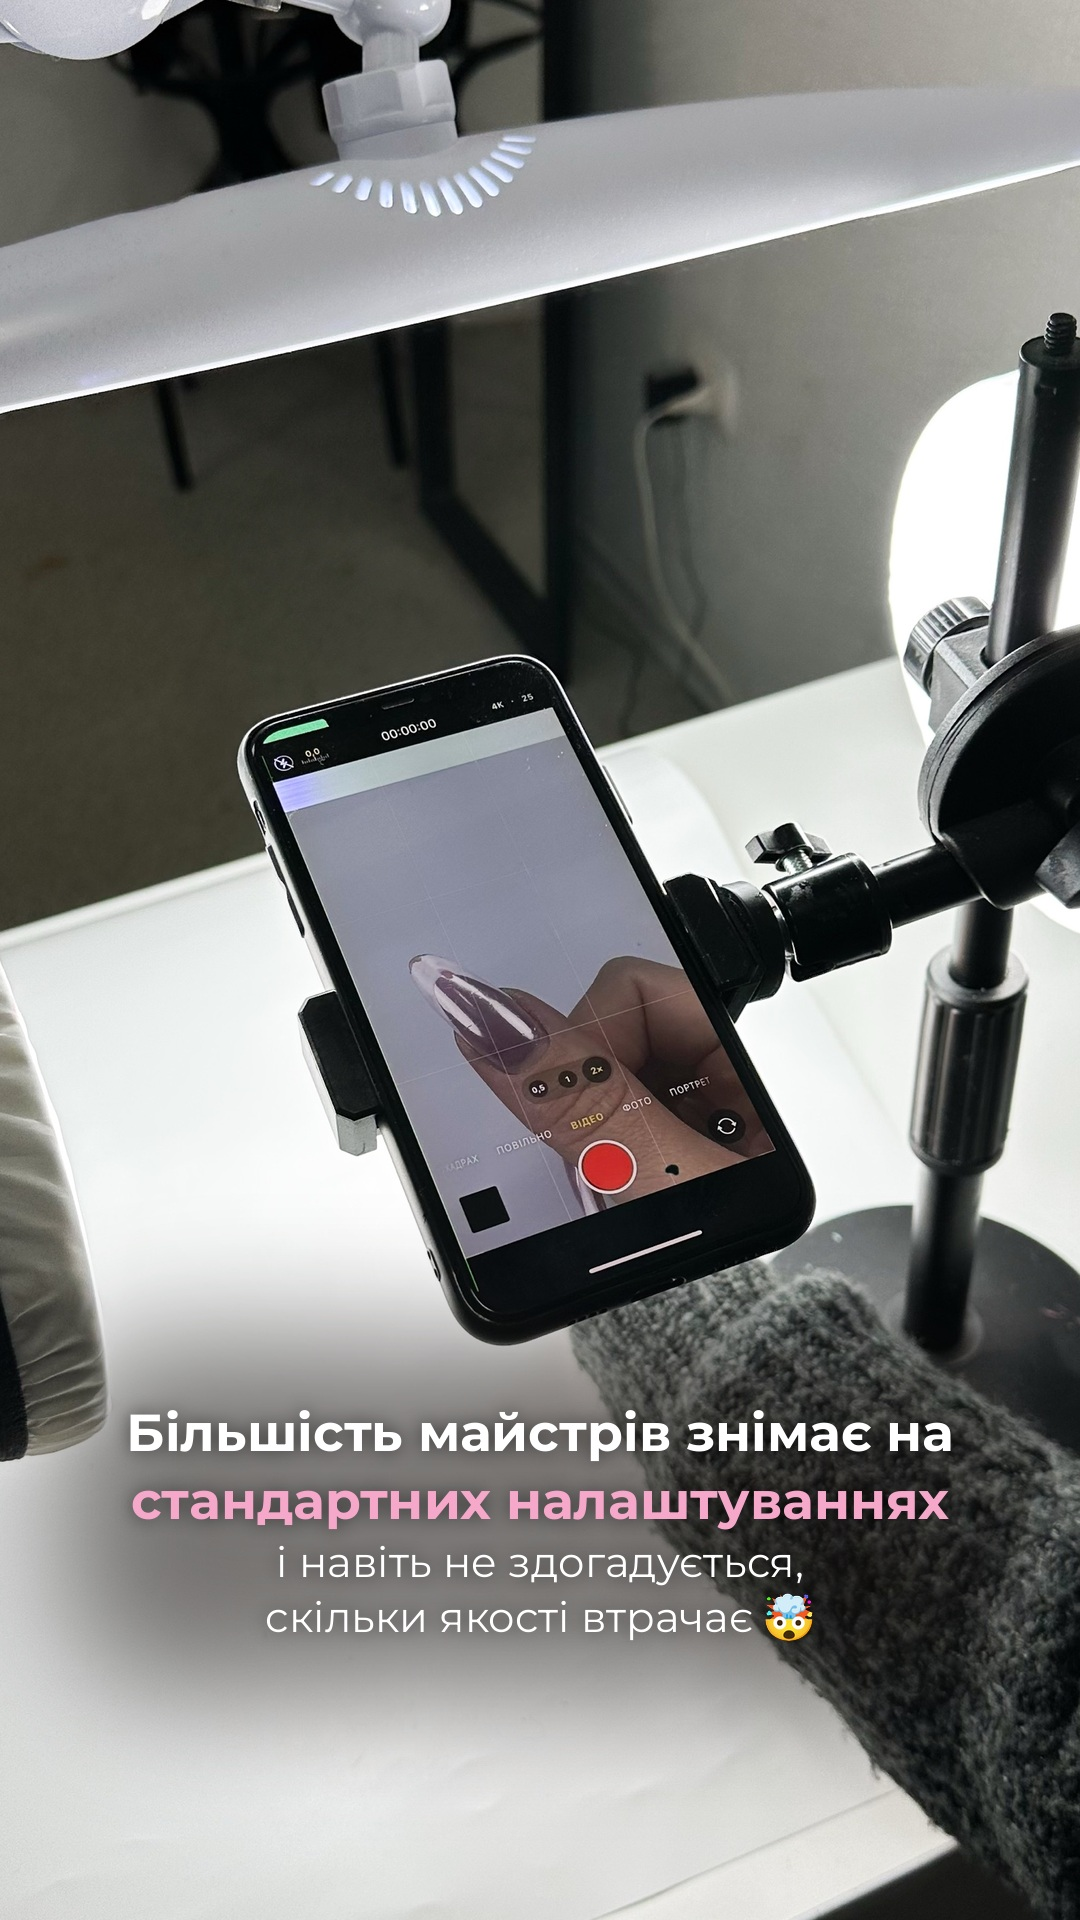
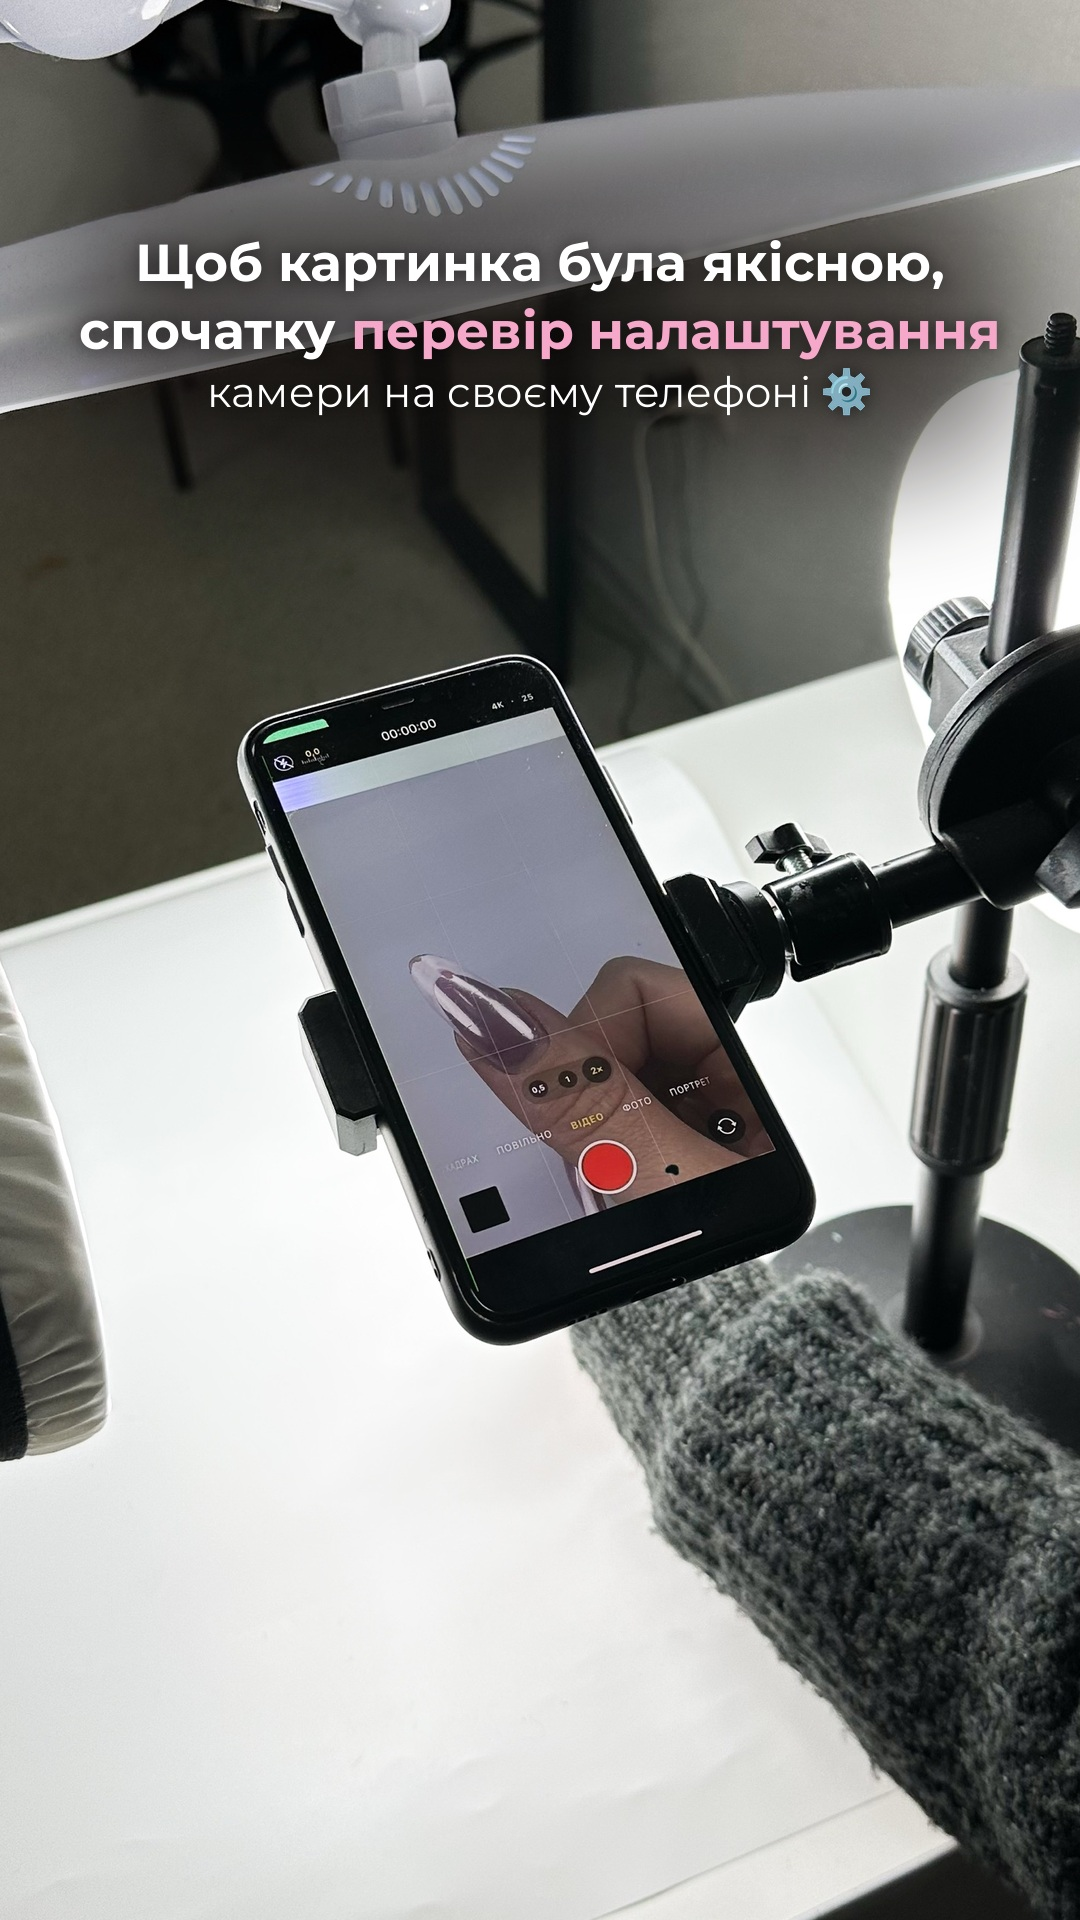
Сторітел налаштування камери: новий текст і перше фото
Claude-Session: https://claude.ai/code/session_0191xVL2hi5vHUvM1ix6pauC

Changed region(s): [[0.0, 0.6562, 0.9472, 0.9375], [0.0, 0.0625, 1.0, 0.2812]]

diff --git a/stories/nalashtuvannia/build.py b/stories/nalashtuvannia/build.py
@@ -14,9 +14,9 @@ def block(im,y,lines,fill):
     return im
 # 1
 BOLD=F(52,700); REG=F(42,400)
-im=block(Image.open(f'{S}/st/me.png').convert('RGB'),150,[(1,'Знаєш, що якість відео залежить',None),(1,'не лише від *телефону*?',None),(0,'А й від того, які налаштування',None),(0,'камери ти обрала','📲')],130); sv(im,1)
+im=block(fit(f'{U}/44955f0d-image.jpg'),1400,[(1,'Не обов’язково мати',None),(1,'*останню модель iPhone*,',None),(0,'щоб мати якісну картинку','📱')],140); sv(im,1)
 # 2
-im=block(fit(f'{U}/6aa01f98-image.jpg'),1400,[(1,'Більшість майстрів знімає на',None),(1,'*стандартних налаштуваннях*',None),(0,'і навіть не здогадується,',None),(0,'скільки якості втрачає','🤯')],140); sv(im,2)
+im=block(fit(f'{U}/6aa01f98-image.jpg'),230,[(1,'Щоб картинка була якісною,',None),(1,'спочатку *перевір налаштування*',None),(0,'камери на своєму телефоні','⚙')],165); sv(im,2)
 # 3 blurred cover + card
 cv=Image.open(f'{R}/cover/oblozhka_nalashtuvannia.jpg').convert('RGB')
 bg=cv.filter(ImageFilter.GaussianBlur(45)); bg=Image.blend(bg,Image.new('RGB',(1080,1920),(28,22,24)),0.55)
@@ -25,7 +25,7 @@ sh=Image.new('L',(1080,1920),0); ImageDraw.Draw(sh).rounded_rectangle((x0,y0+16,
 bg=Image.composite(Image.new('RGB',(1080,1920),(0,0,0)),bg,sh)
 m=Image.new('L',(w,h),0); ImageDraw.Draw(m).rounded_rectangle((0,0,w-1,h-1),radius=40,fill=255); bg.paste(card,(x0,y0),m)
 BOLD=F(50,700); REG=F(42,400)
-im,y=tx(bg,250,'Завтра покажу, які *налаштування*','',cx=540,mw=1000,align='c',shade=0)
-im,y=tx(im,y-8,'варто ввімкнути','',cx=540,mw=1000,align='c',shade=0)
-im,y=tx(im,y+6,'','Не пропусти новий рілс','🔔',cx=540,mw=1000,align='c',shade=0)
+im,y=tx(bg,250,'А які саме *налаштування*','',cx=540,mw=1000,align='c',shade=0)
+im,y=tx(im,y-8,'мають бути —','',cx=540,mw=1000,align='c',shade=0)
+im,y=tx(im,y+6,'','дивись у новому рілс','👇',cx=540,mw=1000,align='c',shade=0)
 sv(im,3); print('ok')
